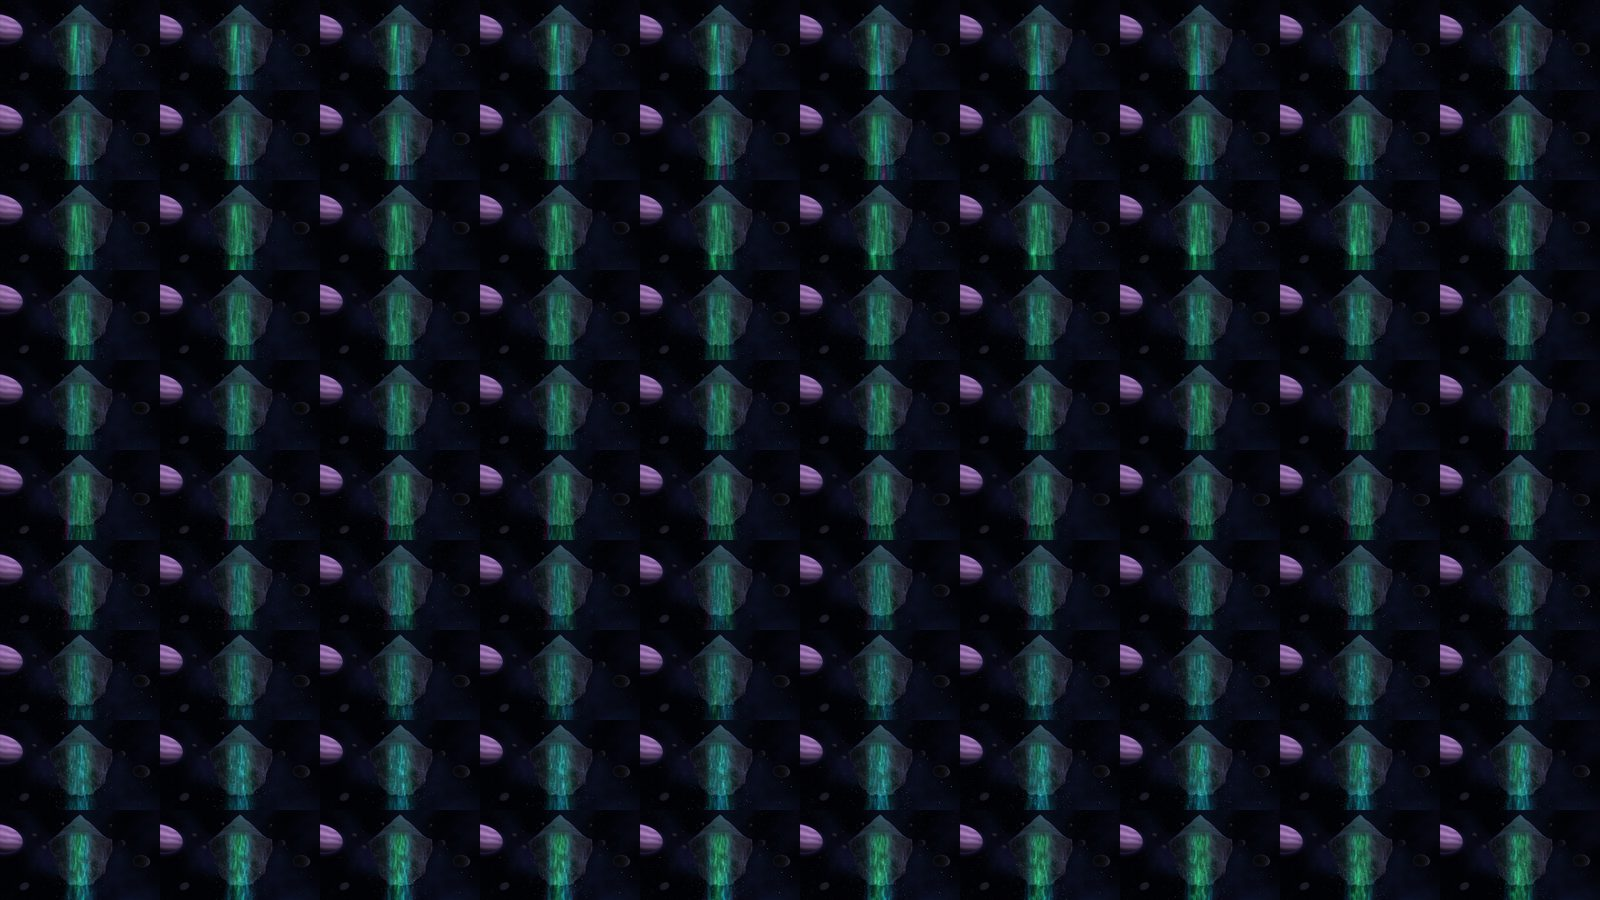
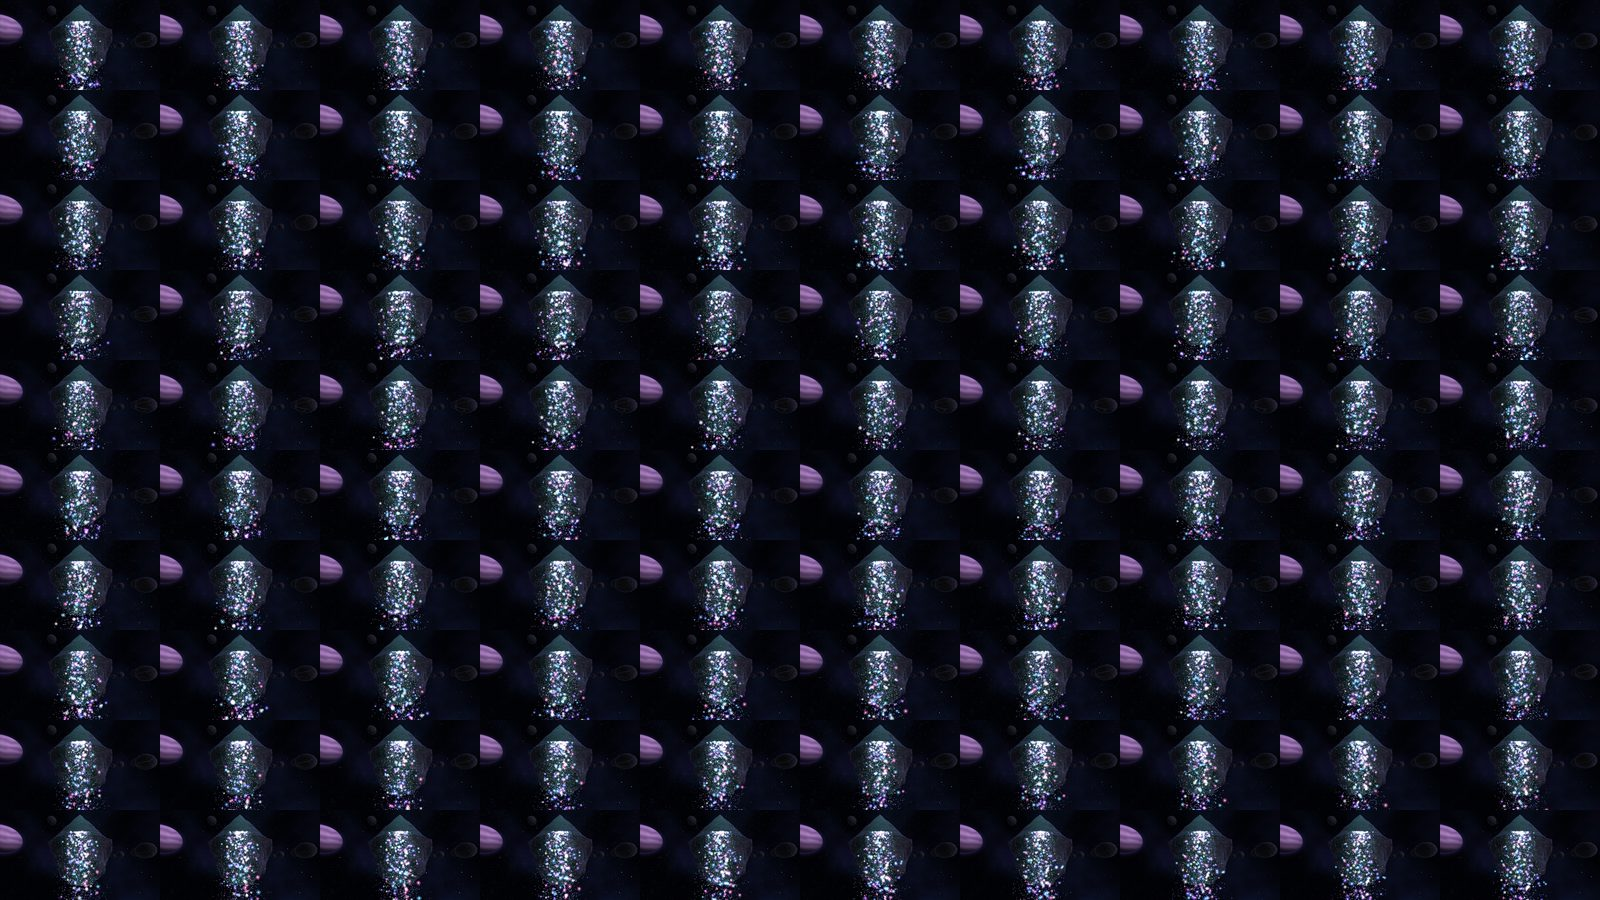
Space waterfall made of glowing orbs, falling forever; one copy plays at a time
- Space waterfall: the green sheet is gone; 14k glowing space-water orbs (some big
  glassy drops) pour off the rim and fall endlessly into the void, with spray and haze
- Entering the headset now cuts the screen's sound within half a second
- Only one open copy of MindLyte plays: starting a journey or entering the headset
  silences any other open copy (BroadcastChannel)
- sw v95

Claude-Session: https://claude.ai/code/session_0157Wu3LX7XvtocLAYFRUbic

diff --git a/src/visuals/scenes/waterfall.js b/src/visuals/scenes/waterfall.js
@@ -4,9 +4,9 @@ import { particles } from './kit.js';
 
 // ===================================================================== Space waterfall
 // Deep space. A rocky mountain island floats ahead of you among the stars and a
-// glowing nebula, and from a notch near its peak pours a waterfall made of
-// aurora light, rippling green, teal, magenta and violet, falling past the
-// mountain's roots and dissolving into the void as glowing spray. You stand on
+// glowing nebula, and over the rim of its plateau pours a waterfall of glowing
+// space water: dense streams of luminous orbs in icy blue, violet and rose,
+// falling past the mountain's roots and on forever into the void. You stand on
 // a small floating rock; little rocks drift slowly round you. Its sound, a soft
 // distant rush with a shimmering pad and the odd crystal sparkle, is made live.
 
@@ -81,38 +81,55 @@ export class WaterfallScene extends BaseScene {
     body.position.set(ISLE.x, ISLE.y - 1.5, ISLE.z);
     this.group.add(peak, body);
 
-    // the aurora waterfall: ribbons of light pouring off the lip and down into the void
-    const fall = new THREE.Mesh(new THREE.PlaneGeometry(4.2, 34, 1, 60), new THREE.ShaderMaterial({
-      transparent: true, depthWrite: false, blending: THREE.AdditiveBlending, side: THREE.DoubleSide, uniforms: U,
-      vertexShader: /* glsl */ `varying vec2 vUv;
-        void main(){ vUv = uv; vec3 p = position;
-          float f = 1.0 - uv.y;                                  // 0 at the lip
-          p.z += 1.6 * sqrt(f) - f * 0.6;                        // arcs out from the lip, then falls
-          p.x *= 1.0 + f * 0.9;                                  // spreading as it falls
-          gl_Position = projectionMatrix * modelViewMatrix * vec4(p, 1.0); }`,
-      fragmentShader: /* glsl */ `uniform float uTime, uFade; varying vec2 vUv; ${NOISE}
+    // the falls: dense streams of glowing space-water orbs pouring off the lip and
+    // falling forever into the void, each orb on its own arc, the stream widening as it goes
+    const N = 14000;
+    const seed = new Float32Array(N * 4), col = new Float32Array(N * 3);
+    const pal = ['#9fe4ff', '#7ab8ff', '#a690ff', '#d78cff', '#ff9ad8', '#ffffff'].map((c) => new THREE.Color(c));
+    for (let i = 0; i < N; i++) {
+      const g = (Math.random() + Math.random() + Math.random() - 1.5) / 1.5;   // most water in the middle of the stream
+      const big = Math.random() < 0.07;
+      seed.set([g * 1.9, Math.random(), 0.09 + Math.random() * 0.06, big ? 0.22 + Math.random() * 0.3 : 0.04 + Math.random() * 0.09], i * 4);
+      const c = pal[Math.floor(Math.random() * pal.length)];
+      col.set([c.r, c.g, c.b], i * 3);
+    }
+    const fg = new THREE.BufferGeometry();
+    fg.setAttribute('position', new THREE.Float32BufferAttribute(new Float32Array(N * 3), 3));
+    fg.setAttribute('aSeed', new THREE.Float32BufferAttribute(seed, 4));
+    fg.setAttribute('aCol', new THREE.Float32BufferAttribute(col, 3));
+    const fall = new THREE.Points(fg, new THREE.ShaderMaterial({
+      transparent: true, depthWrite: false, blending: THREE.AdditiveBlending, uniforms: U,
+      vertexShader: /* glsl */ `attribute vec4 aSeed; attribute vec3 aCol; uniform float uTime, uViewH; varying vec3 vC; varying float vA, vBig;
         void main(){
-          float x = vUv.x, f = 1.0 - vUv.y;
-          float speed = 0.6 + f * 1.6;
-          float rays = fbm(vec3(x * 22.0, vUv.y * 3.0 + uTime * speed, 1.0));
-          float fine = fbm(vec3(x * 70.0, vUv.y * 7.0 + uTime * speed * 1.5, 3.0));
-          float edge = smoothstep(0.0, 0.35, x) * smoothstep(1.0, 0.65, x);
-          edge *= 0.55 + 0.45 * smoothstep(0.3, 0.7, fbm(vec3(x * 6.0, vUv.y * 0.8 + uTime * 0.3, 8.0)));   // strands, not a sheet
-          // aurora colours flowing down and across the falls
-          float h = fbm(vec3(x * 2.0, vUv.y * 1.2 + uTime * 0.25, 5.0));
-          vec3 col = mix(vec3(0.15, 1.0, 0.5), vec3(0.1, 0.85, 0.95), smoothstep(0.35, 0.6, h));
-          col = mix(col, vec3(1.0, 0.25, 0.7), smoothstep(0.58, 0.75, h));
-          col = mix(col, vec3(0.6, 0.35, 1.0), smoothstep(0.6, 1.0, f) * 0.6);
-          float a = (0.08 + pow(rays, 2.0) * 1.6 + fine * 0.3) * edge;
-          a *= smoothstep(0.0, 0.03, f) * (1.0 - smoothstep(0.55, 1.0, f) * 0.85);   // fading into the void
-          gl_FragColor = vec4(col * a * 0.6 * uFade, 1.0); }`,
+          float lane = aSeed.x, rate = aSeed.z, size = aSeed.w;
+          float f = fract(aSeed.y + uTime * rate * 0.35);         // 0 at the lip, 1 far below
+          float drop = 150.0 * pow(f, 1.7);                         // gathering speed as it falls
+          vec3 p = vec3(${LIP.x.toFixed(2)}, ${LIP.y.toFixed(2)}, ${LIP.z.toFixed(2)});
+          p.x += lane * (1.0 + f * 6.0) + sin(uTime * 0.8 + aSeed.y * 40.0) * 0.12 * (0.2 + f * 4.0);
+          p.z += 2.2 * (1.0 - exp(-f * 9.0)) + cos(uTime * 0.6 + aSeed.y * 30.0) * 0.1 * f * 6.0;
+          p.y -= drop;
+          vec4 mv = modelViewMatrix * vec4(p, 1.0);
+          float wob = 1.0 + 0.15 * sin(uTime * 5.0 + aSeed.y * 90.0);
+          gl_PointSize = size * wob * (1.0 + f * 1.5) * projectionMatrix[1][1] * uViewH / -mv.z;
+          gl_Position = projectionMatrix * mv;
+          // colours drift like aurora as the orbs fall; dimming slowly far below, never cut off
+          vC = mix(aCol, vec3(0.75, 0.6, 1.0), smoothstep(0.2, 1.0, f) * 0.4);
+          vA = smoothstep(0.0, 0.015, f) * (1.0 - 0.75 * smoothstep(0.3, 1.0, f)) * (1.0 - smoothstep(0.96, 1.0, f));
+          vBig = step(0.2, size);
+        }`,
+      fragmentShader: /* glsl */ `uniform float uFade; varying vec3 vC; varying float vA, vBig;
+        void main(){ vec2 q = gl_PointCoord - 0.5; float r = length(q) * 2.0;
+          float core = exp(-r * r * 10.0), halo = exp(-r * r * 2.5) * 0.35;
+          float rim = vBig * smoothstep(0.75, 0.62, r) * smoothstep(0.45, 0.62, r) * 0.5;   // big drops: a glassy edge
+          vec3 c = vC * (halo + rim) + mix(vC, vec3(1.0), 0.6) * core;
+          gl_FragColor = vec4(c * vA * uFade, 1.0); }`,
     }));
-    fall.position.set(LIP.x, LIP.y - 17, LIP.z);
+    fall.frustumCulled = false;
     fall.renderOrder = 5;
     this.group.add(fall);
-    // a softer veil of light around the falls, and glowing spray where they dissolve
-    this.group.add(particles(U, { count: 900, min: [-3.5, -16, LIP.z - 1], max: [3.5, LIP.y - 3, LIP.z + 4], vel: [0, -1.6, 0.1], sway: 0.6, size: [0.05, 0.14], colors: ['#7fffd0', '#5ad8ff', '#ff7ad0', '#b48aff'], alpha: 0.75 }));
-    this.group.add(particles(U, { count: 500, min: [-9, -22, LIP.z - 4], max: [9, -6, LIP.z + 6], vel: [0, 0.15, 0], sway: 1.2, size: [0.08, 0.2], colors: ['#7fffd0', '#ff9ae0', '#9ab4ff'], alpha: 0.45 }));
+    // glowing spray around the lip, and a soft luminous haze down the column, deep into the void
+    this.group.add(particles(U, { count: 600, min: [-3, LIP.y - 6, LIP.z - 0.5], max: [3, LIP.y + 0.6, LIP.z + 3.5], vel: [0, -0.8, 0.15], sway: 0.6, size: [0.04, 0.1], colors: ['#bfeaff', '#a690ff', '#ff9ad8'], alpha: 0.7 }));
+    this.group.add(particles(U, { count: 900, min: [-14, -140, LIP.z - 6], max: [14, LIP.y - 6, LIP.z + 10], vel: [0, -2.5, 0], sway: 1.5, size: [0.2, 0.6], colors: ['#7ab8ff', '#a690ff', '#ff9ad8'], alpha: 0.25 }));
 
     // the rock you stand on, and little rocks drifting round
     const ledge = new THREE.Mesh(new THREE.SphereGeometry(2.4, 32, 16, 0, Math.PI * 2, 0, Math.PI * 0.5), rock(0.4));

diff --git a/src/main.js b/src/main.js
@@ -137,6 +137,7 @@ class App {
     this.palTarget = [new THREE.Color(), new THREE.Color(), new THREE.Color()];
     this.applyPalette(this.selected.palette, true);
     this.setScene('nebula');   // the app always opens on Nebula drift
+    this._claimAudio(false);   // listen for another open copy taking over the sound
     this.engine.setNature(this.nature);
 
     this.ui = new DomUI(this);
@@ -321,8 +322,30 @@ class App {
     }
   }
 
+  // Only one MindLyte plays at a time: if the app is open twice (the installed
+  // app and a browser tab, say), whichever one starts a journey or steps into
+  // the headset tells the others to fall silent.
+  _claimAudio(post = true) {
+    try {
+      if (!this._bc) {
+        this._bcId = Math.random().toString(36).slice(2);
+        this._bc = new BroadcastChannel('mindlyte-audio');
+        this._bc.onmessage = (e) => {
+          if (e.data?.type !== 'claim' || e.data.id === this._bcId) return;
+          if (this.playing) this.stop(false, true);
+          this.voice.cancel?.();
+          this.active?.silence?.();
+          if (this.engine.ctx && this.engine.master) this.engine.fadeMaster(0, 0.3);
+        };
+      }
+      if (post) this._bc.postMessage({ type: 'claim', id: this._bcId });
+    } catch (_) {}
+  }
+
   async start(track) {
     this.voice.unlock();
+    this._claimAudio();
+    if (this.active?.muted) this.active.name = '';   // silenced by another copy: make it afresh
     const token = (this._startToken = {});   // a newer start replaces this one
     if (track.stream && !track.meta) await track.loading;
     if (track.stream && !track.meta) { this.ui.toast('Could not load that track. Check your connection.'); return; }
@@ -416,10 +439,10 @@ class App {
     this.caption = '';
   }
 
-  stop(completed = false) {
+  stop(completed = false, quick = false) {
     if (!this.playing) return;
     this.playing = false;
-    const fade = completed ? this.playingTrack.fadeOut || 5 : 4;
+    const fade = quick ? 0.4 : completed ? this.playingTrack.fadeOut || 5 : 4;
     this._stopGuide();
     this.dimTarget = 0;
     this.player.stop(fade);
@@ -495,7 +518,9 @@ class App {
     const ar = this.xrMode === 'immersive-ar';
     // stepping into the headset ends whatever was playing on the screen;
     // nothing plays until you press Begin in there
-    if (this.playing) this.stop();
+    if (this.playing) this.stop(false, true);   // quickly: the screen's sound mustn't carry on in here
+    this.voice.cancel?.();
+    this._claimAudio();
     this.world.setPassthrough(ar);
     this.renderer.setClearColor(0x000000, ar ? 0 : 1);
     this.menu.group.visible = true;

diff --git a/public/sw.js b/public/sw.js
@@ -1,7 +1,7 @@
 // Network-first with offline fallback: you always get the newest version
 // (and any newly recorded voice clips) when online, and MindLyte still works
 // with no connection because everything it plays is generated on-device.
-const CACHE = 'mindlyte-v94';
+const CACHE = 'mindlyte-v95';
 const SHELL = ['./', './index.html', './app.js', './styles.css', './manifest.webmanifest', './icons/icon-192.png', './icons/icon-512.png'];
 
 self.addEventListener('install', (e) => {
